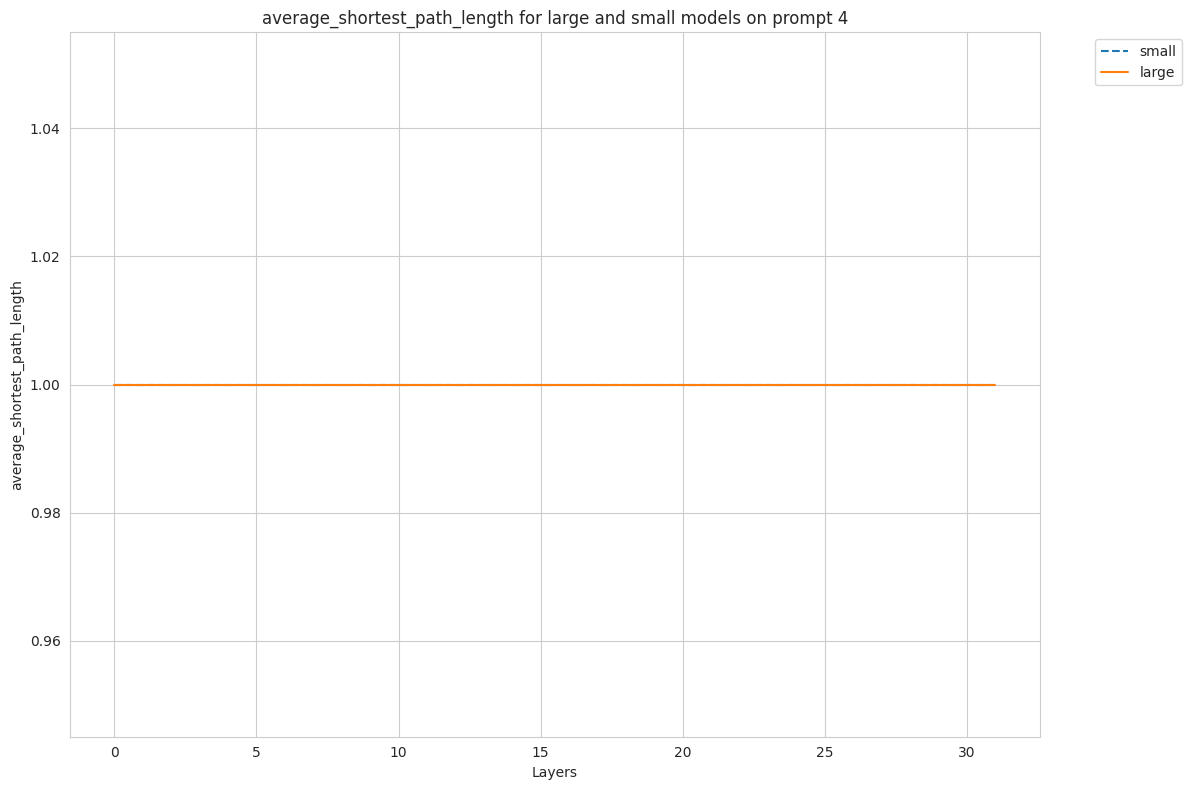
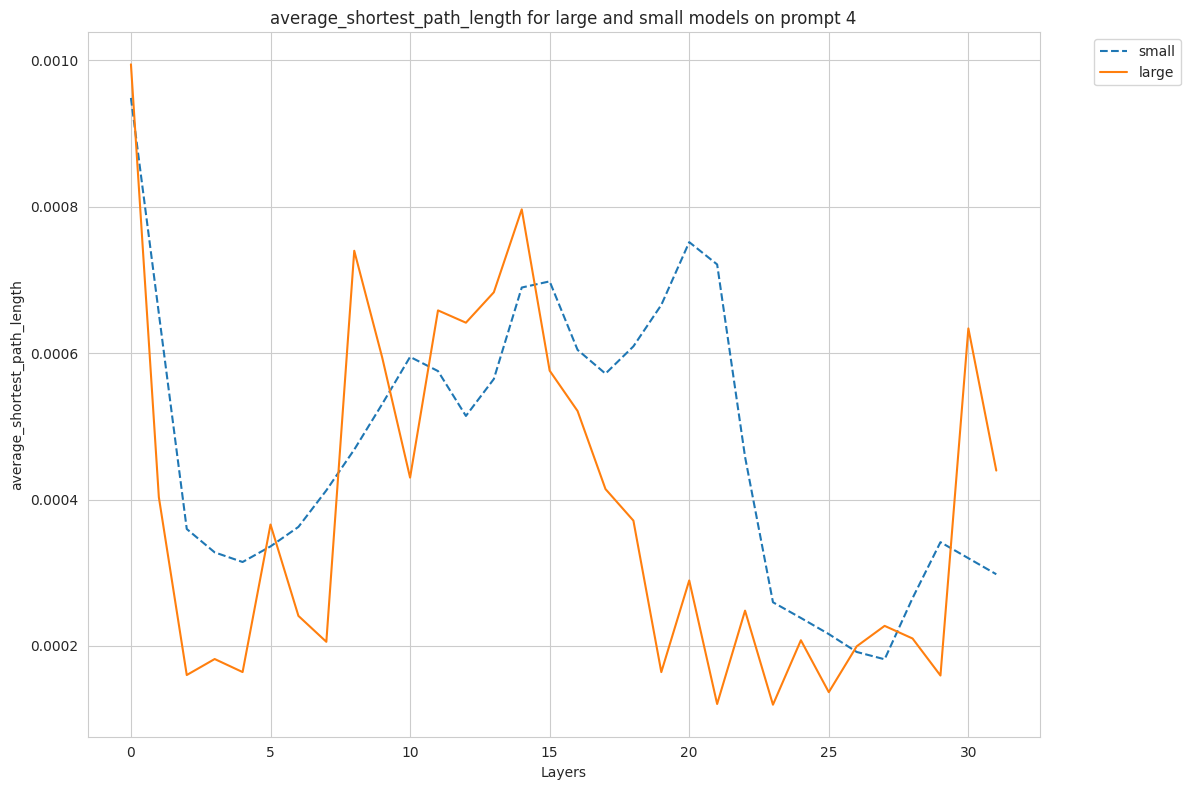
fix shortest-path and clustering coeff computation

diff --git a/src/graph_features.py b/src/graph_features.py
@@ -136,10 +136,10 @@ class GraphFeatures:
         return np.array(avg_degrees)
 
     def extract_average_clustering(self, **kwargs):
-        return np.array([nx.average_clustering(G) for G in self.attn_graphs])
+        return np.array([nx.average_clustering(G, weight="weight") for G in self.attn_graphs])
     
     def extract_average_shortest_path_length(self, **kwargs):
-        return np.array([nx.average_shortest_path_length(G) for G in self.attn_graphs])
+        return np.array([nx.average_shortest_path_length(G, weight="weight") for G in self.attn_graphs])
     
     def extract_ollivier_ricci(self, **kwargs):
         orc = [OllivierRicci(G) for G in self.attn_graphs]
